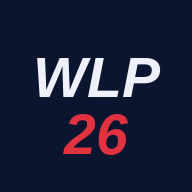
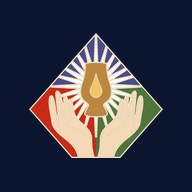
Add files via upload

Changed region(s): [[0.1562, 0.1562, 0.8438, 0.8438]]

diff --git a/app.js b/app.js
@@ -23,6 +23,13 @@ const bottleKey = d => (d.standId || '') + '|' + norm(d.bottle);
 const standOf = d => STAND_BY_ID[d.standId] || (d.standName ? { id: '', num: '?', name: d.standName, color: '#888', zoneName: '' } : { id: '', num: '—', name: 'Hors stand', color: '#888', zoneName: '' });
 const numBadge = (s, mini) => `<span class="num" style="background:${s.color}${mini ? ';display:inline-grid;min-width:30px;height:20px;font-size:11px;vertical-align:1px' : ''}">${esc(s.num)}</span>`;
 const myWish = () => new Set(S.wish[S.me?.name]?.stands || []);
+// Stands visités : cochés à la main OU au moins un dram noté
+const visitedOf = name => new Set([...(S.wish[name]?.visited || []), ...S.drams.filter(d => d.author === name && d.standId).map(d => d.standId)]);
+const tastedOf = name => new Set(S.drams.filter(d => d.author === name && d.standId).map(d => d.standId));
+// Double bouton photo : appareil photo direct + galerie
+const photoButtons = (idp) => `<div class="grid2" style="margin-top:8px">
+  <label class="btn"><input type="file" accept="image/*" capture="environment" class="${idp}" hidden>📷 Prendre une photo</label>
+  <label class="btn"><input type="file" accept="image/*" class="${idp}" hidden>🖼 Galerie</label></div>`;
 
 function toast(msg, ms = 2400) {
   const t = document.createElement('div'); t.className = 'toast'; t.textContent = msg; document.body.append(t);
@@ -73,8 +80,9 @@ function loginView() {
   $('nav.bottom').classList.add('hidden'); $('header.top').classList.add('hidden');
   let who = '';
   app.innerHTML = `<div class="login">
-    <div class="big">WLP <b>26</b></div>
-    <p class="muted">Carnet de dégustation du club · ${esc(EVENT.name)}</p>
+    <img src="logo-wk.png" alt="Whisky Knights" class="wk-logo">
+    <div class="big" style="font-size:40px;text-align:center">WLP <b>26</b></div>
+    <p class="muted" style="text-align:center;margin-top:4px">Carnet de dégustation · ${esc(EVENT.name)}</p>
     <label class="f">Qui êtes-vous ?</label>
     <div class="who">${MEMBERS.map(m => `<button data-m="${esc(m)}">${avatar(m)}${esc(m)}</button>`).join('')}</div>
     <label class="f" for="code">Code club</label>
@@ -157,18 +165,29 @@ function vStands() {
   const f = S.filters, wish = myWish();
   const byStand = {};
   S.drams.forEach(d => (byStand[d.standId] ||= []).push(d));
-  const visitedByMe = new Set(S.drams.filter(d => d.author === S.me.name).map(d => d.standId));
+  const visitedByMe = visitedOf(S.me.name);
+  const clubVisited = new Set(MEMBERS.flatMap(m => [...visitedOf(m)]));
   const wishers = {};
   Object.entries(S.wish).forEach(([n, w]) => (w.stands || []).forEach(id => (wishers[id] ||= []).push(n)));
   const qn = norm(f.q);
   const list = STANDS.filter(s =>
     (!f.zone || s.zone === f.zone) &&
     (!qn || norm(s.name + ' ' + s.num + ' ' + s.zoneName + ' ' + s.sub).includes(qn) || (byStand[s.id] || []).some(d => norm(d.bottle).includes(qn))) &&
-    (f.mode === 'all' || (f.mode === 'wish' && wish.has(s.id)) || (f.mode === 'club' && byStand[s.id]) || (f.mode === 'todo' && !visitedByMe.has(s.id)))
+    (f.mode === 'all' || (f.mode === 'wish' && wish.has(s.id)) || (f.mode === 'club' && byStand[s.id]) || (f.mode === 'done' && visitedByMe.has(s.id)) || (f.mode === 'todo' && !visitedByMe.has(s.id)))
   );
-  let html = `<input class="search" id="q" type="search" placeholder="🔎 Stand, numéro, bouteille…" value="${esc(f.q)}">
+  const pct = n => Math.round(n / STANDS.length * 100);
+  const zoneStats = ZONES.map(z => { const ids = STANDS.filter(s => s.zone === z.id).map(s => s.id); return { z, total: ids.length, me: ids.filter(i => visitedByMe.has(i)).length, club: ids.filter(i => clubVisited.has(i)).length }; });
+  let html = `<details class="card prog" ${f.progOpen ? 'open' : ''} id="prog">
+      <summary><div class="row"><div class="grow"><b>Ma progression</b> <span class="muted small">· ${visitedByMe.size} / ${STANDS.length} stands</span></div><span class="pill ok">✓ ${pct(visitedByMe.size)} %</span></div>
+        <div class="bar2"><i class="club" style="width:${pct(clubVisited.size)}%"></i><i style="width:${pct(visitedByMe.size)}%"></i></div>
+        <div class="small muted" style="margin-top:4px"><span class="lg me"></span>moi <span class="lg club"></span>club (${clubVisited.size}) · touchez pour le détail par zone</div></summary>
+      <div class="ztiles">${zoneStats.map(t => `<button class="ztile ${t.me === t.total ? 'full' : ''}" data-zone="${t.z.id}" style="--c:${t.z.color}">
+        <span class="zn">${esc(t.z.name.split(' (')[0].split(' / ')[0])}</span><span class="zc">${t.me}/${t.total}${t.me === t.total ? ' 🏅' : ''}</span>
+        <span class="bar2 thin"><i class="club" style="width:${t.club / t.total * 100}%"></i><i style="width:${t.me / t.total * 100}%"></i></span></button>`).join('')}</div>
+    </details>
+    <input class="search" id="q" type="search" placeholder="🔎 Stand, numéro, bouteille…" value="${esc(f.q)}">
     <div class="chips">
-      ${[['all', 'Tous'], ['wish', `⭐ Ma liste (${wish.size})`], ['club', '🥃 Dégustés par le club'], ['todo', 'Pas encore visités']].map(([k, l]) => `<button class="chip ${f.mode === k ? 'on' : ''}" data-mode="${k}">${l}</button>`).join('')}
+      ${[['all', 'Tous'], ['done', `✓ Mes visités (${visitedByMe.size})`], ['todo', 'À découvrir'], ['wish', `⭐ Ma liste (${wish.size})`], ['club', '🥃 Dégustés par le club']].map(([k, l]) => `<button class="chip ${f.mode === k ? 'on' : ''}" data-mode="${k}">${l}</button>`).join('')}
     </div>
     <div class="chips" style="padding-top:2px">
       <button class="chip ${!f.zone ? 'on' : ''}" data-zone="">Toutes zones</button>
@@ -177,18 +196,19 @@ function vStands() {
   if (!list.length) html += `<div class="empty"><div class="e">🤷</div>Aucun stand ne correspond.</div>`;
   let lastZone = '', lastSub = '';
   for (const s of list) {
-    if (s.zone !== lastZone) { html += `<div class="zone-h"><i style="background:${s.color}"></i>${esc(s.zoneName)}</div>`; lastZone = s.zone; lastSub = ''; }
+    if (s.zone !== lastZone) { const zs = zoneStats.find(t => t.z.id === s.zone); html += `<div class="zone-h"><i style="background:${s.color}"></i><span class="grow">${esc(s.zoneName)}</span><span class="zcount">✓ ${zs.me}/${zs.total}</span></div>`; lastZone = s.zone; lastSub = ''; }
     if (s.sub && s.sub !== lastSub) { html += `<div class="small muted" style="margin:8px 0 0 4px">${esc(s.sub)}</div>`; lastSub = s.sub; }
     const ds = byStand[s.id] || [];
     const tasters = [...new Set(ds.map(d => d.author))];
     const a = avg(ds.map(d => d.score).filter(x => x != null));
     html += `<div class="stand ${visitedByMe.has(s.id) ? 'visited' : ''}" data-id="${s.id}">
       ${numBadge(s)}
-      <div class="grow"><div class="name">${esc(s.name)}</div>${ds.length ? `<div class="sub">${ds.length} dram${ds.length > 1 ? 's' : ''} noté${ds.length > 1 ? 's' : ''}</div>` : ''}</div>
+      <div class="grow"><div class="name">${esc(s.name)}</div>${visitedByMe.has(s.id) && !ds.some(d => d.author === S.me.name) ? '<div class="sub">visité</div>' : ''}${ds.length ? `<div class="sub">${ds.length} dram${ds.length > 1 ? 's' : ''} noté${ds.length > 1 ? 's' : ''}</div>` : ''}</div>
       ${(wishers[s.id] || []).length ? `<div class="dots">${wishers[s.id].filter(n => n !== S.me.name).map(n => avatar(n)).join('')}</div>` : ''}
       ${tasters.length ? `<div class="dots" title="Dégusté par">${tasters.map(n => avatar(n)).join('')}</div>` : ''}
       ${a != null ? scoreTag(Math.round(a)) : ''}
       <button class="star ${wish.has(s.id) ? 'on' : ''}" data-star="${s.id}" aria-label="À voir">★</button>
+      <button class="vcheck ${visitedByMe.has(s.id) ? 'on' : ''}" data-visit="${s.id}" aria-label="Visité">✓</button>
     </div>`;
   }
   app.innerHTML = html;
@@ -197,6 +217,9 @@ function vStands() {
   app.querySelectorAll('[data-mode]').forEach(b => b.onclick = () => { f.mode = b.dataset.mode; vStands(); });
   app.querySelectorAll('[data-zone]').forEach(b => b.onclick = () => { f.zone = b.dataset.zone; vStands(); });
   app.querySelectorAll('[data-star]').forEach(b => b.onclick = e => { e.stopPropagation(); toggleWish(b.dataset.star); });
+  app.querySelectorAll('[data-visit]').forEach(b => b.onclick = e => { e.stopPropagation(); toggleVisited(b.dataset.visit); });
+  $('#prog').ontoggle = e => { f.progOpen = e.target.open; };
+  app.querySelectorAll('.ztile').forEach(b => b.onclick = e => { e.preventDefault(); f.zone = f.zone === b.dataset.zone ? '' : b.dataset.zone; vStands(); });
   app.querySelectorAll('.stand').forEach(el => el.onclick = () => location.hash = 'stand/' + el.dataset.id);
 }
 
@@ -204,6 +227,14 @@ function toggleWish(id) {
   const w = myWish(); w.has(id) ? w.delete(id) : w.add(id);
   S.wish[S.me.name] = { ...(S.wish[S.me.name] || {}), stands: [...w] };
   store.save('wishlists', S.me.name, { stands: [...w], at: Date.now() });
+  rerender();
+}
+
+function toggleVisited(id) {
+  if (tastedOf(S.me.name).has(id)) { toast('Déjà visité : vous y avez noté un dram'); return; }
+  const v = new Set(S.wish[S.me.name]?.visited || []); v.has(id) ? v.delete(id) : v.add(id);
+  S.wish[S.me.name] = { ...(S.wish[S.me.name] || {}), visited: [...v] };
+  store.save('wishlists', S.me.name, { visited: [...v], at: Date.now() });
   rerender();
 }
 
@@ -218,10 +249,12 @@ function vStand(id) {
   app.innerHTML = `
     <a href="#stands" class="small">‹ Stands</a>
     <div class="row" style="margin:10px 0">${numBadge(s)}<div class="grow"><h1 style="margin:0">${esc(s.name)}</h1><div class="small muted">${esc(s.zoneName)}${s.sub ? ' · ' + esc(s.sub) : ''}</div></div></div>
-    <div class="grid2">
-      <a class="btn primary" href="#new?stand=${encodeURIComponent(id)}">🥃 Noter un dram ici</a>
+    <a class="btn primary block" href="#new?stand=${encodeURIComponent(id)}">🥃 Noter un dram ici</a>
+    <div class="grid2" style="margin-top:8px">
+      <button class="btn ${visitedOf(S.me.name).has(id) ? 'okbtn' : ''}" id="visBtn">${visitedOf(S.me.name).has(id) ? '✓ Visité' : '○ Marquer visité'}</button>
       <button class="btn" id="wishBtn">${wish.has(id) ? '★ Dans ma liste' : '☆ À visiter'}</button>
     </div>
+    ${(() => { const who = MEMBERS.filter(m => visitedOf(m).has(id)); return who.length ? `<p class="small muted row" style="margin-top:10px">Déjà passés : <span class="dots" style="margin-left:6px">${who.map(n => avatar(n)).join('')}</span></p>` : ''; })()}
     ${wishers.length ? `<p class="small muted row" style="margin-top:10px">Veulent y passer : <span class="dots" style="margin-left:6px">${wishers.map(n => avatar(n)).join('')}</span></p>` : ''}
     <h2>Dégustations du club (${ds.length})</h2>
     ${Object.values(groups).map(g => {
@@ -229,10 +262,11 @@ function vStand(id) {
       return `<div class="card" style="margin-bottom:10px">
         <div class="row"><b class="grow">${esc(g[0].bottle)}</b>${a != null ? scoreTag(Math.round(a)) : ''}</div>
         ${g.map(d => `<div class="row" style="margin-top:8px;cursor:pointer" data-dram="${d.id}">${avatar(d.author)}<span class="grow small">${esc(d.author)}${d.fav ? ' ❤' : ''}${d.rebuy ? ' 🛒' : ''} <span class="muted">${esc((d.comment || '').slice(0, 60))}</span></span>${scoreTag(d.score)}</div>`).join('')}
-        ${g.some(d => d.author === S.me.name) ? '' : `<a class="btn sm" style="margin-top:10px" href="#new?from=${g[0].id}">+ Je le goûte aussi</a>`}
+        ${g.some(d => d.author === S.me.name) ? `<a class="btn sm ghost" style="margin-top:10px" href="#edit/${g.find(d => d.author === S.me.name).id}">✏ Modifier mon avis</a>` : `<a class="btn sm primary" style="margin-top:10px" href="#new?from=${g[0].id}">+ Donner mon avis</a>`}
       </div>`;
     }).join('') || `<div class="empty"><div class="e">🥃</div>Personne n’a encore noté de dram ici.</div>`}`;
   $('#wishBtn').onclick = () => toggleWish(id);
+  $('#visBtn').onclick = () => toggleVisited(id);
   app.querySelectorAll('[data-dram]').forEach(el => el.onclick = () => location.hash = 'dram/' + el.dataset.dram);
 }
 
@@ -259,7 +293,7 @@ function vDram(id) {
     ${others.length ? `<h2>Les autres membres</h2>${others.map(dramRow).join('')}` : ''}
     <div class="grid2" style="margin-top:18px">
       ${mine ? `<a class="btn" href="#edit/${d.id}">✏ Modifier</a><button class="btn" id="del">🗑 Supprimer</button>`
-             : others.some(o => o.author === S.me.name) ? '' : `<a class="btn primary" href="#new?from=${d.id}" style="grid-column:span 2">🥃 Je le goûte aussi</a>`}
+             : others.some(o => o.author === S.me.name) ? '' : `<a class="btn primary" href="#new?from=${d.id}" style="grid-column:span 2">🥃 Donner mon avis sur cette bouteille</a>`}
     </div>`;
   if (d.hasPhoto) store.getPhoto(d.id).then(p => { const i = $('#heroImg'); if (i && imgSrc(p)) i.src = p; });
   bindDramRows();
@@ -296,8 +330,8 @@ function vEdit(id, q) {
       ${ZONES.map(z => `<optgroup label="${esc(z.name)}">${STANDS.filter(s => s.zone === z.id).map(s => `<option value="${s.id}" ${s.id === d.standId ? 'selected' : ''}>${esc(s.num)} · ${esc(s.name)}</option>`).join('')}</optgroup>`).join('')}
     </select>
     <label class="f">Bouteille / dram *</label>
-    <input class="in" id="bottle" placeholder="ex. Ardbeg Uigeadail, Chichibu The First Ten…" value="${esc(d.bottle)}" autocomplete="off" list="bottles">
-    <datalist id="bottles"></datalist>
+    <input class="in" id="bottle" placeholder="ex. Ardbeg Uigeadail, Chichibu The First Ten…" value="${esc(d.bottle)}" autocomplete="off">
+    ${existing ? '' : '<div id="known"></div>'}
     <div class="grid3">
       <div><label class="f">Âge</label><input class="in" id="age" value="${esc(d.age)}" placeholder="12 ans"></div>
       <div><label class="f">Degré %</label><input class="in" id="abv" inputmode="decimal" value="${esc(d.abv)}" placeholder="46"></div>
@@ -321,10 +355,8 @@ function vEdit(id, q) {
     </div>
 
     <label class="f">Photo (étiquette, verre…)</label>
-    <label class="photo-drop" id="drop">
-      <input type="file" accept="image/*" capture="environment" id="file" hidden>
-      <div id="prev">${imgSrc(thumb) ? `<img src="${imgSrc(thumb)}">` : '📷 Prendre / choisir une photo'}</div>
-    </label>
+    <div class="photo-drop" id="prev">${imgSrc(thumb) ? `<img src="${imgSrc(thumb)}">` : '📷 Pas encore de photo'}</div>
+    ${photoButtons('pf')}
     ${imgSrc(thumb) ? `<button type="button" class="btn sm ghost" id="rmPhoto" style="margin-top:6px">Retirer la photo</button>` : ''}
 
     <label class="f">Nez</label><textarea class="in" id="nose">${esc(d.nose)}</textarea>
@@ -335,26 +367,63 @@ function vEdit(id, q) {
     <div class="sticky-save"><button class="btn primary block" id="saveBtn">Enregistrer</button></div>
   </div>`;
 
-  const fillBottles = () => {
-    const sid = $('#stand').value;
-    const names = [...new Set(S.drams.filter(x => !sid || x.standId === sid).map(x => x.bottle))].slice(0, 40);
-    $('#bottles').innerHTML = names.map(n => `<option value="${esc(n)}">`).join('');
+  // Bouteilles déjà créées par le club : on les retrouve pour ajouter son propre avis
+  let picked = from ? bottleKey(from) : '';
+  const renderKnown = () => {
+    const box = $('#known'); if (!box) return;
+    const sid = $('#stand').value, typed = norm($('#bottle').value);
+    const groups = {};
+    S.drams.forEach(x => {
+      if (sid ? x.standId !== sid : typed.length < 2) return;
+      if (typed && !picked && !norm(x.bottle).includes(typed) && !norm(standOf(x).name).includes(typed)) return;
+      (groups[bottleKey(x)] ||= []).push(x);
+    });
+    const list = Object.entries(groups).sort((a, b) => b[1].length - a[1].length).slice(0, 8);
+    if (!list.length) { box.innerHTML = ''; return; }
+    box.innerHTML = `<div class="small muted" style="margin:10px 0 6px">${sid ? 'Déjà goûtées ici par le club' : 'Déjà notées par le club'} · touchez pour donner votre avis</div>` +
+      list.map(([k, g]) => {
+        const mine = g.find(x => x.author === S.me.name);
+        const a = avg(g.map(x => x.score).filter(v => v != null));
+        return `<div class="dram known ${k === picked ? 'picked' : ''}" data-k="${esc(k)}" data-mine="${mine ? mine.id : ''}">
+          <div class="grow"><div class="t">${k === picked ? '✓ ' : ''}${esc(g[0].bottle)}</div>
+            <div class="m">${sid ? '' : '#' + esc(standOf(g[0]).num) + ' ' + esc(standOf(g[0]).name) + ' · '}${[g[0].age, g[0].abv ? g[0].abv + ' %' : '', g[0].cask].filter(Boolean).map(esc).join(' · ')}</div>
+            <div class="dots" style="margin-top:4px;padding-left:5px">${[...new Set(g.map(x => x.author))].map(n => avatar(n)).join('')}</div></div>
+          ${mine ? '<span class="pill">✏ Ma fiche</span>' : (a != null ? scoreTag(Math.round(a)) : '')}
+        </div>`;
+      }).join('');
+    box.querySelectorAll('.known').forEach(el => el.onclick = () => {
+      if (el.dataset.mine) { location.hash = 'edit/' + el.dataset.mine; return; }
+      const g = groups[el.dataset.k], src = g[0];
+      if (!$('#stand').value && src.standId) $('#stand').value = src.standId;
+      $('#bottle').value = src.bottle;
+      [['age', 'age'], ['abv', 'abv'], ['price', 'price'], ['cask', 'cask']].forEach(([f, id]) => { if (!$('#' + id).value && src[f]) $('#' + id).value = src[f]; });
+      picked = el.dataset.k; renderKnown();
+      toast(`✓ Bouteille de ${[...new Set(g.map(x => x.author))].join(", ")} : notez-la !`);
+      $('#score').scrollIntoView({ behavior: 'smooth', block: 'center' });
+    });
   };
-  fillBottles(); $('#stand').onchange = fillBottles;
+  renderKnown();
+  $('#stand').onchange = () => { picked = ''; renderKnown(); };
+  $('#bottle').oninput = () => { picked = ''; renderKnown(); };
   $('#score').oninput = e => { $('#sv').textContent = e.target.value; };
   app.querySelectorAll('[data-tag]').forEach(b => b.onclick = () => { const t = b.dataset.tag; tags.has(t) ? tags.delete(t) : tags.add(t); b.classList.toggle('on'); });
-  $('#file').onchange = async e => {
+  app.querySelectorAll('input.pf').forEach(inp => inp.onchange = async e => {
     const f = e.target.files[0]; if (!f) return;
     $('#prev').textContent = '⏳ Compression…';
     try { const p = await photoPair(f); photo = p.full; thumb = p.thumb; removePhoto = false; $('#prev').innerHTML = `<img src="${imgSrc(p.full)}">`; }
     catch (err) { $('#prev').textContent = '⚠ ' + err.message; }
-  };
-  const rm = $('#rmPhoto'); if (rm) rm.onclick = () => { removePhoto = true; photo = null; thumb = null; $('#prev').textContent = '📷 Prendre / choisir une photo'; rm.remove(); };
+    e.target.value = '';
+  });
+  const rm = $('#rmPhoto'); if (rm) rm.onclick = () => { removePhoto = true; photo = null; thumb = null; $('#prev').textContent = '📷 Pas encore de photo'; rm.remove(); };
 
   $('#saveBtn').onclick = () => {
     const bottle = $('#bottle').value.trim();
     if (!bottle) { toast('Indiquez le nom de la bouteille'); $('#bottle').focus(); return; }
     const standId = $('#stand').value;
+    if (!existing) {
+      const dup = S.drams.find(x => x.author === S.me.name && bottleKey(x) === bottleKey({ standId, bottle }));
+      if (dup && confirm('Vous avez déjà une fiche pour cette bouteille sur ce stand.\n\nOK : ouvrir votre fiche existante\nAnnuler : créer une 2e fiche')) { location.hash = 'edit/' + dup.id; return; }
+    }
     const data = {
       author: S.me.name, standId, standName: STAND_BY_ID[standId]?.name || '', bottle,
       age: $('#age').value.trim(), abv: $('#abv').value.trim().replace(',', '.'), price: $('#price').value.trim().replace(',', '.'), cask: $('#cask').value.trim(),
@@ -437,7 +506,7 @@ function vClub() {
       <h2>📈 Meilleures notes</h2>${rankList(top)}` : `<div class="empty"><div class="e">🏆</div>Le classement apparaîtra avec les premières notes.</div>`;
   } else {
     const zonesVisited = new Set(S.drams.map(d => STAND_BY_ID[d.standId]?.zone).filter(Boolean));
-    const standsVisited = new Set(S.drams.map(d => d.standId).filter(Boolean));
+    const standsVisited = new Set(MEMBERS.flatMap(m => [...visitedOf(m)]));
     html += `<div class="grid3"><div class="stat"><b>${S.drams.length}</b><span>drams notés</span></div><div class="stat"><b>${standsVisited.size}</b><span>stands visités / ${STANDS.length}</span></div><div class="stat"><b>${zonesVisited.size}</b><span>zones / ${ZONES.length}</span></div></div>`;
     const stats = MEMBERS.map(m => {
       const ds = S.drams.filter(d => d.author === m);
@@ -445,7 +514,7 @@ function vClub() {
       const best = ds.slice().sort((a, b) => (b.score || 0) - (a.score || 0))[0];
       const tagCount = {}; ds.forEach(d => (d.tags || []).forEach(t => tagCount[t] = (tagCount[t] || 0) + 1));
       const favTag = Object.entries(tagCount).sort((a, b) => b[1] - a[1])[0];
-      return { m, n: ds.length, a: avg(sc), best, favTag, stands: new Set(ds.map(d => d.standId)).size };
+      return { m, n: ds.length, a: avg(sc), best, favTag, stands: visitedOf(m).size };
     });
     const maxN = Math.max(1, ...stats.map(s => s.n));
     html += stats.map(s => `<div class="card" style="margin-top:10px">
@@ -492,16 +561,17 @@ function vSouvenirs() {
 function addMoment() {
   let full = null, thumb = null;
   sheet(`<h1 style="margin-top:0">Nouveau souvenir</h1>
-    <label class="photo-drop"><input type="file" accept="image/*" id="mf" hidden><div id="mp">📷 Photo (facultatif)</div></label>
+    <div class="photo-drop" id="mp">📷 Photo (facultatif)</div>
+    ${photoButtons('mf')}
     <label class="f">Texte</label><textarea class="in editing" id="mt" placeholder="La masterclass de fou, la rencontre avec le master blender…"></textarea>
     <label class="f">Stand lié (facultatif)</label>
     <select class="in" id="ms"><option value="">—</option>${STANDS.map(s => `<option value="${s.id}">${esc(s.num)} · ${esc(s.name)}</option>`).join('')}</select>
     <button class="btn primary block" id="mok" style="margin-top:14px">Publier</button>`, (el, close) => {
-    $('#mf', el).onchange = async e => {
+    el.querySelectorAll('input.mf').forEach(inp => inp.onchange = async e => {
       const f = e.target.files[0]; if (!f) return; $('#mp', el).textContent = '⏳ Compression…';
       try { const p = await photoPair(f); full = p.full; thumb = await compress(f, 800, 120_000, 0.7); $('#mp', el).innerHTML = `<img src="${imgSrc(thumb)}">`; }
       catch (err) { $('#mp', el).textContent = '⚠ ' + err.message; }
-    };
+    });
     $('#mok', el).onclick = () => {
       const text = $('#mt', el).value.trim();
       if (!text && !full) { toast('Ajoutez une photo ou un texte'); return; }

diff --git a/style.css b/style.css
@@ -13,7 +13,8 @@ a{color:var(--amber)}
 
 /* ---------- header ---------- */
 header.top{position:sticky;top:0;z-index:20;display:flex;align-items:center;gap:10px;padding:10px 16px;padding-top:calc(10px + env(safe-area-inset-top,0px));background:linear-gradient(135deg,#132659,#0c1530);border-bottom:1px solid var(--line)}
-.logo{font-weight:900;font-size:22px;letter-spacing:-.5px}
+.logo{font-weight:900;font-size:22px;letter-spacing:-.5px;display:flex;align-items:center;gap:8px;text-decoration:none;color:var(--ink)}
+.logo img{height:36px;width:auto;display:block}
 .logo b{color:var(--red)}
 .top .sync{font-size:12px;color:var(--mute);margin-left:auto}
 .me{border:1px solid var(--line);background:var(--card);border-radius:99px;padding:5px 12px 5px 5px;display:flex;align-items:center;gap:7px;font-size:14px;cursor:pointer}
@@ -130,7 +131,7 @@ textarea.in{min-height:64px;resize:vertical}
 .who button.on{border-color:var(--amber);box-shadow:0 0 0 2px var(--amber) inset}
 
 /* ---------- sheet / toast ---------- */
-.toast{position:fixed;white-space:nowrap;left:50%;transform:translateX(-50%);bottom:calc(var(--nav) + var(--safe-b) + 16px);background:#fff;color:#111;padding:10px 16px;border-radius:12px;font-weight:600;z-index:60;box-shadow:0 8px 24px #0008;max-width:90vw}
+.toast{position:fixed;text-align:center;width:max-content;left:50%;transform:translateX(-50%);bottom:calc(var(--nav) + var(--safe-b) + 16px);background:#fff;color:#111;padding:10px 16px;border-radius:12px;font-weight:600;z-index:60;box-shadow:0 8px 24px #0008;max-width:90vw}
 .sheet-bg{position:fixed;inset:0;background:#0009;z-index:50;display:flex;align-items:flex-end}
 .sheet{background:var(--bg2);width:100%;border-radius:20px 20px 0 0;padding:16px 16px calc(16px + var(--safe-b));max-height:85dvh;overflow:auto}
 .empty{text-align:center;padding:30px 10px;color:var(--mute)}
@@ -138,3 +139,31 @@ textarea.in{min-height:64px;resize:vertical}
 .seg{display:flex;background:var(--bg2);border:1px solid var(--line);border-radius:12px;padding:3px;margin-bottom:12px}
 .seg button{flex:1;border:0;background:none;padding:8px;border-radius:9px;font-weight:700;color:var(--mute);cursor:pointer}
 .seg button.on{background:var(--card);color:var(--ink)}
+.dram.known{padding:9px 10px;margin-top:6px}
+.dram.known+.dram.known{margin-top:6px}
+.dram.picked{border-color:var(--amber);box-shadow:0 0 0 1px var(--amber) inset}
+
+/* ---------- progression / visités ---------- */
+.prog{margin-bottom:10px}
+.prog summary{list-style:none;cursor:pointer}
+.prog summary::-webkit-details-marker{display:none}
+.pill.ok{background:#43c08a33;color:#7fe0b0}
+.bar2{position:relative;height:10px;border-radius:5px;background:#ffffff14;overflow:hidden;margin-top:8px;display:block}
+.bar2 i{position:absolute;left:0;top:0;bottom:0;background:var(--ok);border-radius:5px}
+.bar2 i.club{background:#43c08a4d}
+.bar2.thin{height:5px;margin-top:6px}
+.lg{display:inline-block;width:10px;height:10px;border-radius:3px;margin:0 4px 0 2px;vertical-align:-1px}
+.lg.me{background:var(--ok)} .lg.club{background:#43c08a4d;margin-left:8px}
+.ztiles{display:grid;grid-template-columns:minmax(0,1fr) minmax(0,1fr);gap:6px;margin-top:12px}
+.ztile{min-width:0;color:var(--ink);text-align:left;border:1px solid var(--line);border-left:4px solid var(--c);background:var(--bg2);border-radius:10px;padding:8px 10px;cursor:pointer;display:flex;flex-wrap:wrap;align-items:center;gap:4px}
+.ztile .zn{flex:1;font-size:13px;font-weight:700;white-space:nowrap;overflow:hidden;text-overflow:ellipsis}
+.ztile .zc{font-size:12px;color:var(--mute);font-weight:700}
+.ztile .bar2{flex-basis:100%}
+.ztile.full{border-color:var(--ok);border-left-color:var(--c);background:#43c08a1a}
+.zcount{font-size:12px;color:var(--mute);letter-spacing:0;text-transform:none}
+.stand.visited{background:linear-gradient(90deg,#43c08a24,transparent 70%);border-left:3px solid var(--ok);padding-left:6px;border-radius:6px}
+.stand.visited .name::after{content:""}
+.vcheck{flex:none;width:32px;height:32px;border-radius:50%;border:2px solid #ffffff30;background:none;color:transparent;font-weight:900;font-size:16px;cursor:pointer;display:grid;place-items:center;padding:0}
+.vcheck.on{background:var(--ok);border-color:var(--ok);color:#06281a}
+.btn.okbtn{background:#43c08a26;border-color:var(--ok);color:#9ff0c7}
+.wk-logo{width:min(280px,80%);display:block;margin:0 auto 14px}

diff --git a/index.html b/index.html
@@ -7,15 +7,15 @@
 <meta name="apple-mobile-web-app-capable" content="yes">
 <meta name="apple-mobile-web-app-status-bar-style" content="black-translucent">
 <meta name="apple-mobile-web-app-title" content="WLP 26">
-<title>WLP 26 · Carnet du club</title>
+<title>WLP 26 · Whisky Knights</title>
 <link rel="manifest" href="manifest.webmanifest">
-<link rel="icon" href="icon-192.png">
+<link rel="icon" href="logo-emblem.png">
 <link rel="apple-touch-icon" href="icon-192.png">
 <link rel="stylesheet" href="style.css">
 </head>
 <body>
 <header class="top hidden">
-  <div class="logo">WLP <b>26</b></div>
+  <a class="logo" href="#stands"><img src="logo-emblem.png" alt="Whisky Knights">WLP <b>26</b></a>
   <span class="sync" id="sync"></span>
   <button class="me" id="meBtn"></button>
 </header>

diff --git a/sw.js b/sw.js
@@ -1,8 +1,8 @@
 // Service worker : l'app s'ouvre même sans réseau dans le hall.
 // Incrémentez VERSION à chaque mise à jour du code pour forcer le rafraîchissement.
-const VERSION = 'wlp26-v2';
+const VERSION = 'wlp26-v4';
 const SHELL = ['./', 'index.html', 'style.css', 'app.js', 'store.js', 'config.js', 'stands.js',
-  'plan-wlp26.webp', 'icon-192.png', 'icon-512.png', 'manifest.webmanifest'];
+  'plan-wlp26.webp', 'icon-192.png', 'icon-512.png', 'logo-emblem.png', 'logo-wk.png', 'manifest.webmanifest'];
 
 self.addEventListener('install', e => { e.waitUntil(caches.open(VERSION).then(c => c.addAll(SHELL))); self.skipWaiting(); });
 self.addEventListener('activate', e => {
